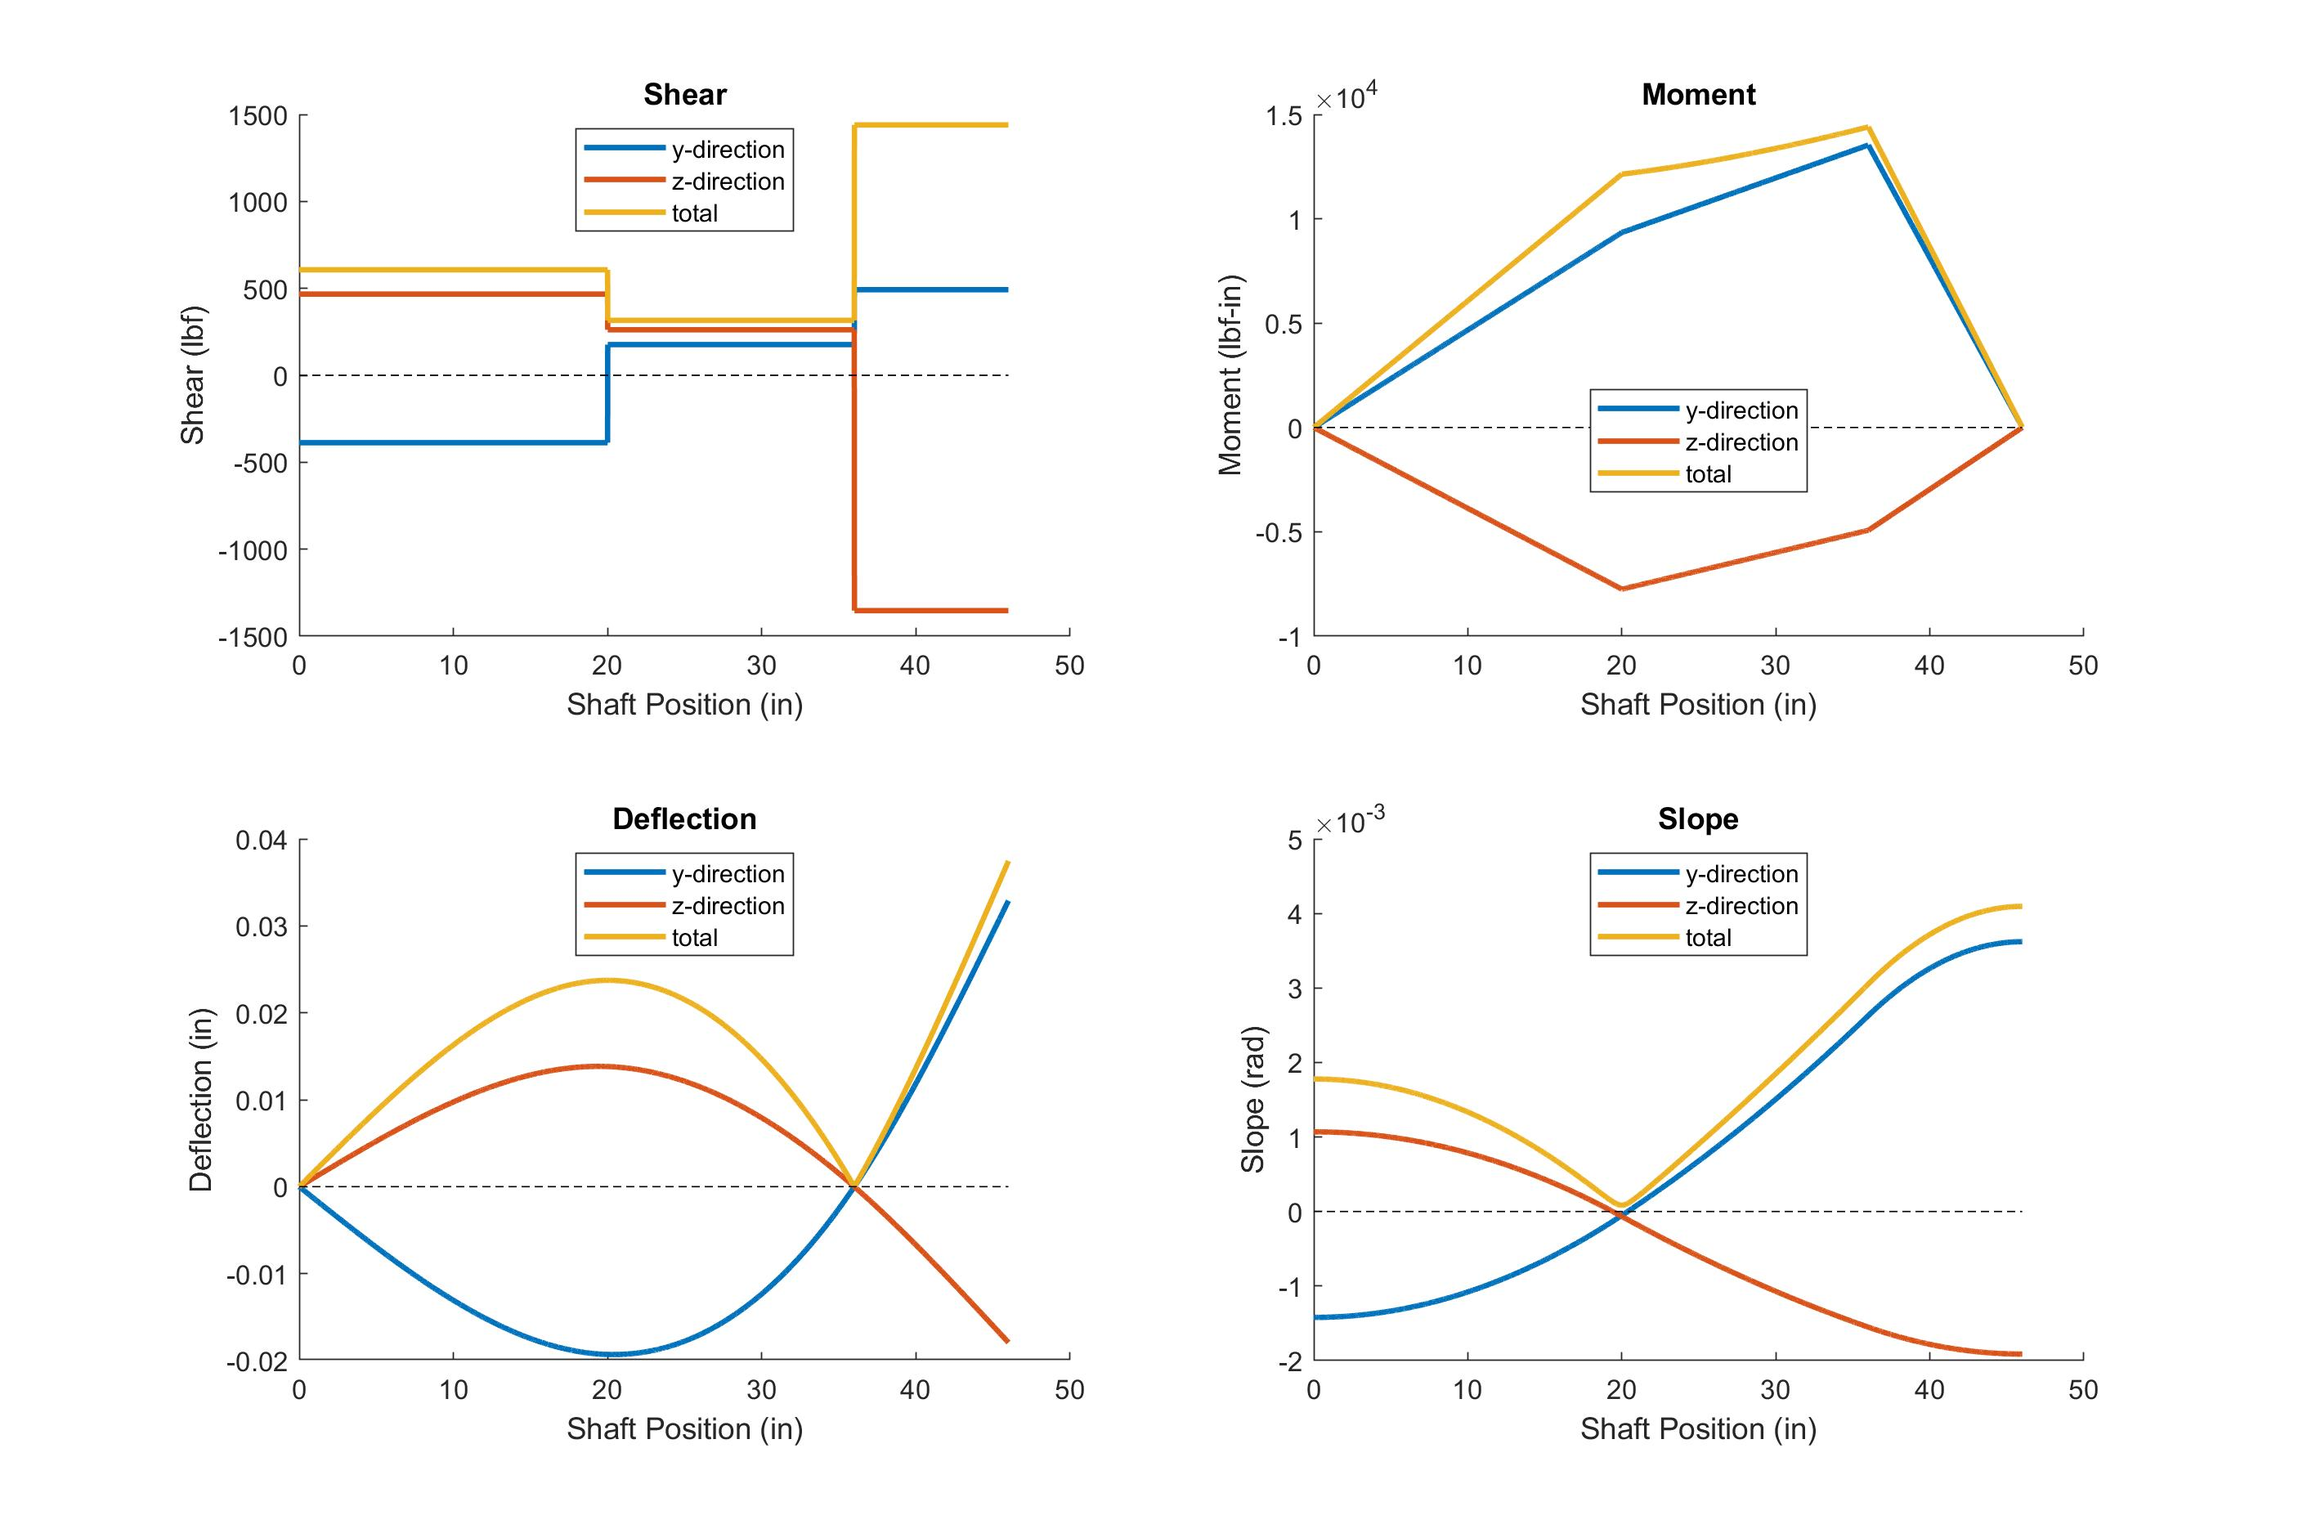
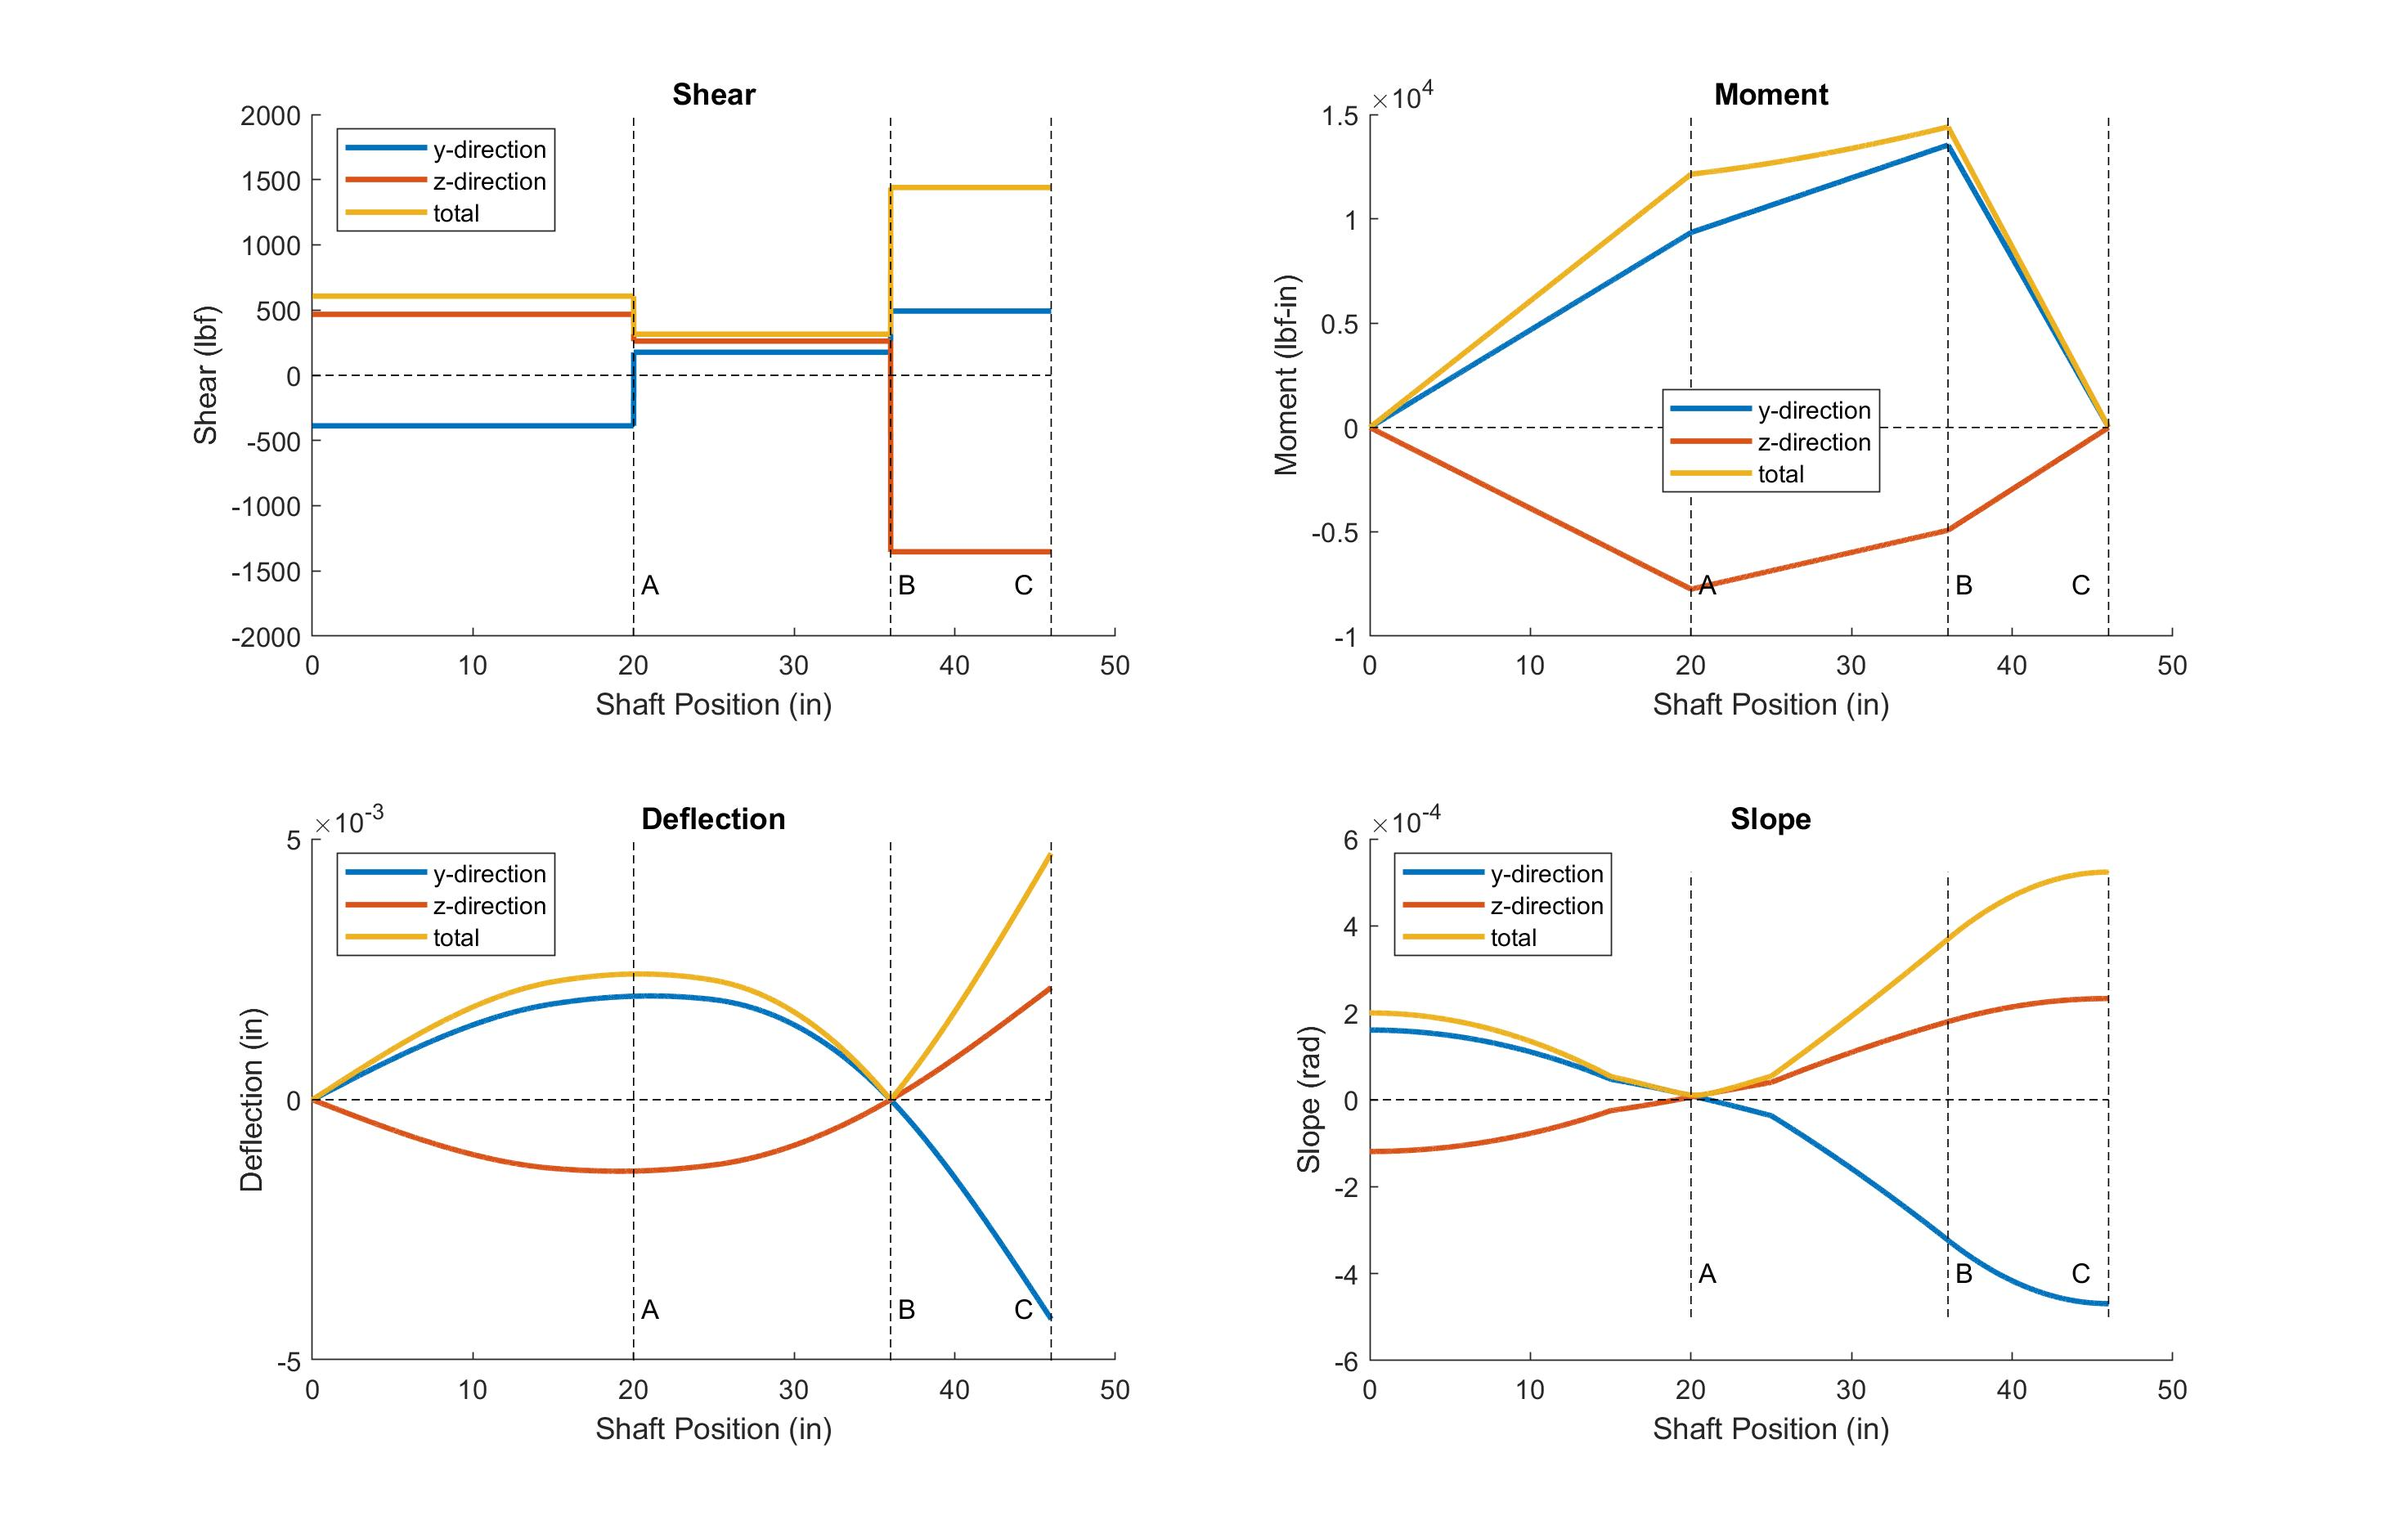
Modified shaft segmentation. Updated figures

diff --git a/finalproject.m b/finalproject.m
@@ -186,9 +186,9 @@ x = [x_OA x_AB x_BC];
 % Shaft diameter
 
 
-d_1 = 4.25 + zeros(size(0 : s : 15.5));
-d_2 = 5.25 + zeros(size(15.5+s : s : 25.5));
-d_3 = 4.25 + zeros(size(25.5+s : s : 46));
+d_1 = 4.25 + zeros(size(0 : s : 15));
+d_2 = 5.25 + zeros(size(15+s : s : 25));
+d_3 = 4.25 + zeros(size(25+s : s : 46));
 
 d_segmented = [d_1 d_2 d_3];
 
